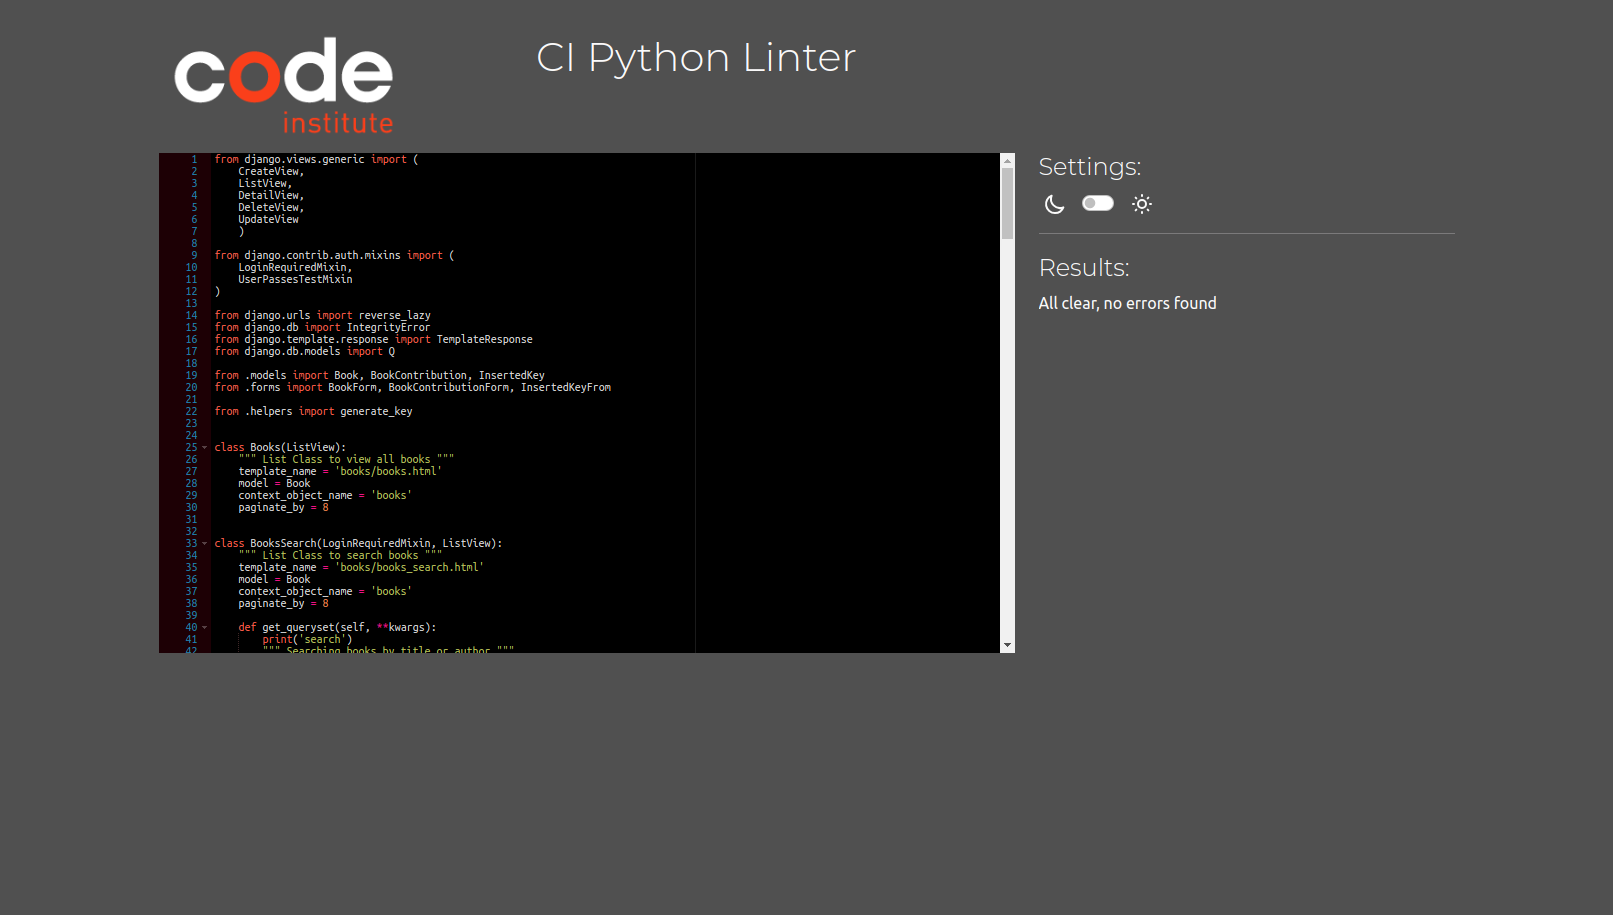
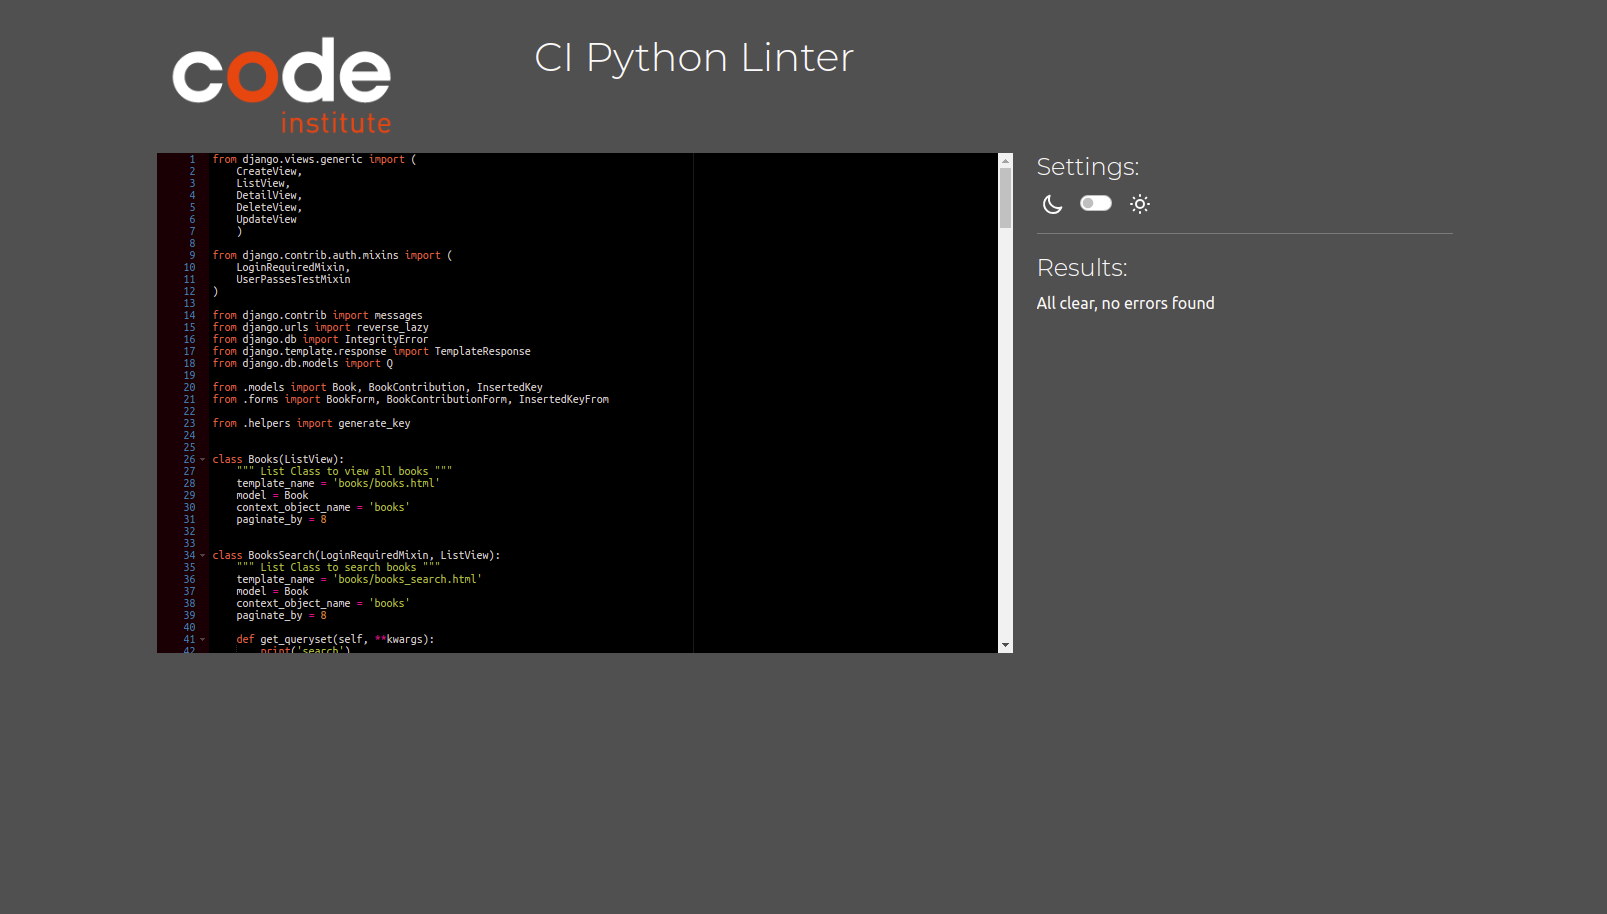
feat: add message feedback for user when CRUD conducted

diff --git a/templates/base.html b/templates/base.html
@@ -32,17 +32,29 @@
     
 </head>
 <body>
-    
+    <!-- Header -->
     {% include 'includes/header.html' %}
 
+    <!-- Messages -->
+    {% if messages %}
+    <div class="toasts">
+        {% for message in messages %}
+        {% include 'includes/toast.html' %}
+        {% endfor %}
+    </div>
+    {% endif %}
+
+    <!-- Content -->
     <main>
         {% block content %}
         {% endblock %}
     </main>
    
-
+    <!-- Footer -->
     {% include 'includes/footer.html' %}
 
+
+    <!-- Link Javascripts -->
     {% block extra_js %}
     <script type="module" src="{% static 'js/script.js' %}"></script>
     <!-- font-awesome script -->

diff --git a/templates/includes/toast.html b/templates/includes/toast.html
@@ -1,0 +1,8 @@
+<div class="toast custom-toast fade show">
+    <div class="d-flex">
+        <div class="toast-body">
+            {{ message }}
+        </div>
+        <button type="button" class="me-2 m-auto btn-close btn-close-black" data-bs-dismiss="toast" aria-label="Close"></button>
+    </div>
+</div>

diff --git a/books/views.py b/books/views.py
@@ -11,6 +11,7 @@ from django.contrib.auth.mixins import (
     UserPassesTestMixin
 )
 
+from django.contrib import messages
 from django.urls import reverse_lazy
 from django.db import IntegrityError
 from django.template.response import TemplateResponse
@@ -81,13 +82,23 @@ class RegisterBook(LoginRequiredMixin, CreateView):
     pk = None
 
     def form_valid(self, form):
-        """ Method which creates instances after valid form data were POST"""
+        """
+            Method which creates instances after valid form data were POST
+            and to show message on successful form submit
+
+        """
         form.instance.user = self.request.user
         # success_url
         item = form.save()
         self.pk = item.pk
         # generate key after posting
         form.instance.key = generate_key(self.pk)
+
+        messages.success(
+            self.request,
+            'Successfully created book'
+        )
+
         return super(RegisterBook, self).form_valid(form)
 
     def get_success_url(self):
@@ -104,6 +115,15 @@ class DeleteBook(LoginRequiredMixin, UserPassesTestMixin, DeleteView):
         """ Test user with logged user otherwise 403 """
         return self.request.user == self.get_object().user
 
+    def delete(self, request, *args, **kwargs):
+        """ Display toast success on form submit """
+
+        messages.success(
+            self.request,
+            'Successfully deleted book'
+        )
+        return super().delete(request, *args, **kwargs)
+
 
 class EditBook(LoginRequiredMixin, UserPassesTestMixin, UpdateView):
     """ Edit a book """
@@ -119,9 +139,17 @@ class EditBook(LoginRequiredMixin, UserPassesTestMixin, UpdateView):
         return self.request.user == self.get_object().user
 
     def form_valid(self, form):
-        """ Set up pk for the success url  """
+        """
+            Set up pk for the success url and show toast when form submitted
+        """
         item = form.save()
         self.pk = item.pk
+
+        messages.success(
+            self.request,
+            'Book edited successfully'
+        )
+
         return super(EditBook, self).form_valid(form)
 
     def get_success_url(self):
@@ -143,7 +171,7 @@ class AddBookContribution(LoginRequiredMixin, CreateView):
         # code solution:
         # https://stackoverflow.com/questions/22083218/django-how-to-pre-populate-formview-with-dynamic-non-model-data
         """
-        Returns the initial data to use for forms on this view.
+            Returns the initial data to use for forms on this view.
         """
         initial = super().get_initial()
         slug = str(self.request).split('/')[-2]
@@ -154,7 +182,10 @@ class AddBookContribution(LoginRequiredMixin, CreateView):
         return initial
 
     def form_valid(self, form):
-        """ Method which creates instances after valid form data were POST"""
+        """
+            Method which creates instances after valid form data were POST
+            and show toast success on form submition
+        """
         try:
             # post username
             form.instance.user = self.request.user
@@ -172,6 +203,12 @@ class AddBookContribution(LoginRequiredMixin, CreateView):
             if self.request.user == user_owner:
                 form.instance.user_status = 'owner'
             item.save()
+
+            messages.success(
+                self.request,
+                'Successfully created new contribution'
+            )
+
             return super(AddBookContribution, self).form_valid(form)
         except IntegrityError:
             return TemplateResponse(
@@ -211,7 +248,8 @@ class EditBookContribution(
     def form_valid(self, form):
         try:
             """
-            Method which creates instances after valid form data were POST
+                Method which creates instances after valid form data were POST
+                and show toast success on form submit
             """
             # post username
             form.instance.user = self.request.user
@@ -230,6 +268,12 @@ class EditBookContribution(
             if self.request.user == user_owner:
                 form.instance.user_status = 'owner'
             item.save()
+
+            messages.success(
+                self.request,
+                'Successfully edited contribution'
+            )
+
             return super(EditBookContribution, self).form_valid(form)
         except IntegrityError:
             return TemplateResponse(
@@ -248,6 +292,15 @@ class DeleteBookContribution(
 
     def test_func(self):
         return self.request.user == self.get_object().user
+
+    def delete(self, request, *args, **kwargs):
+        """ Display toast success on form submit """
+
+        messages.success(
+            self.request,
+            'Successfully deleted contribution'
+        )
+        return super().delete(request, *args, **kwargs)
 
 
 class InsertKey(CreateView):

diff --git a/findmereadme/settings.py b/findmereadme/settings.py
@@ -34,6 +34,7 @@ ALLOWED_HOSTS = [
     '8000-brodsa-findmereadme-bkc96orn9th.ws-eu105.gitpod.io',
     '8000-brodsa-findmereadme-bkc96orn9th.ws-eu106.gitpod.io',
     '8000-brodsa-findmereadme-sf6v7s9dm77.ws-eu106.gitpod.io',
+    '8000-brodsa-findmereadme-sf6v7s9dm77.ws-eu107.gitpod.io',
     'findme-readme-10d0bfb3ba28.herokuapp.com'
     ]
 
